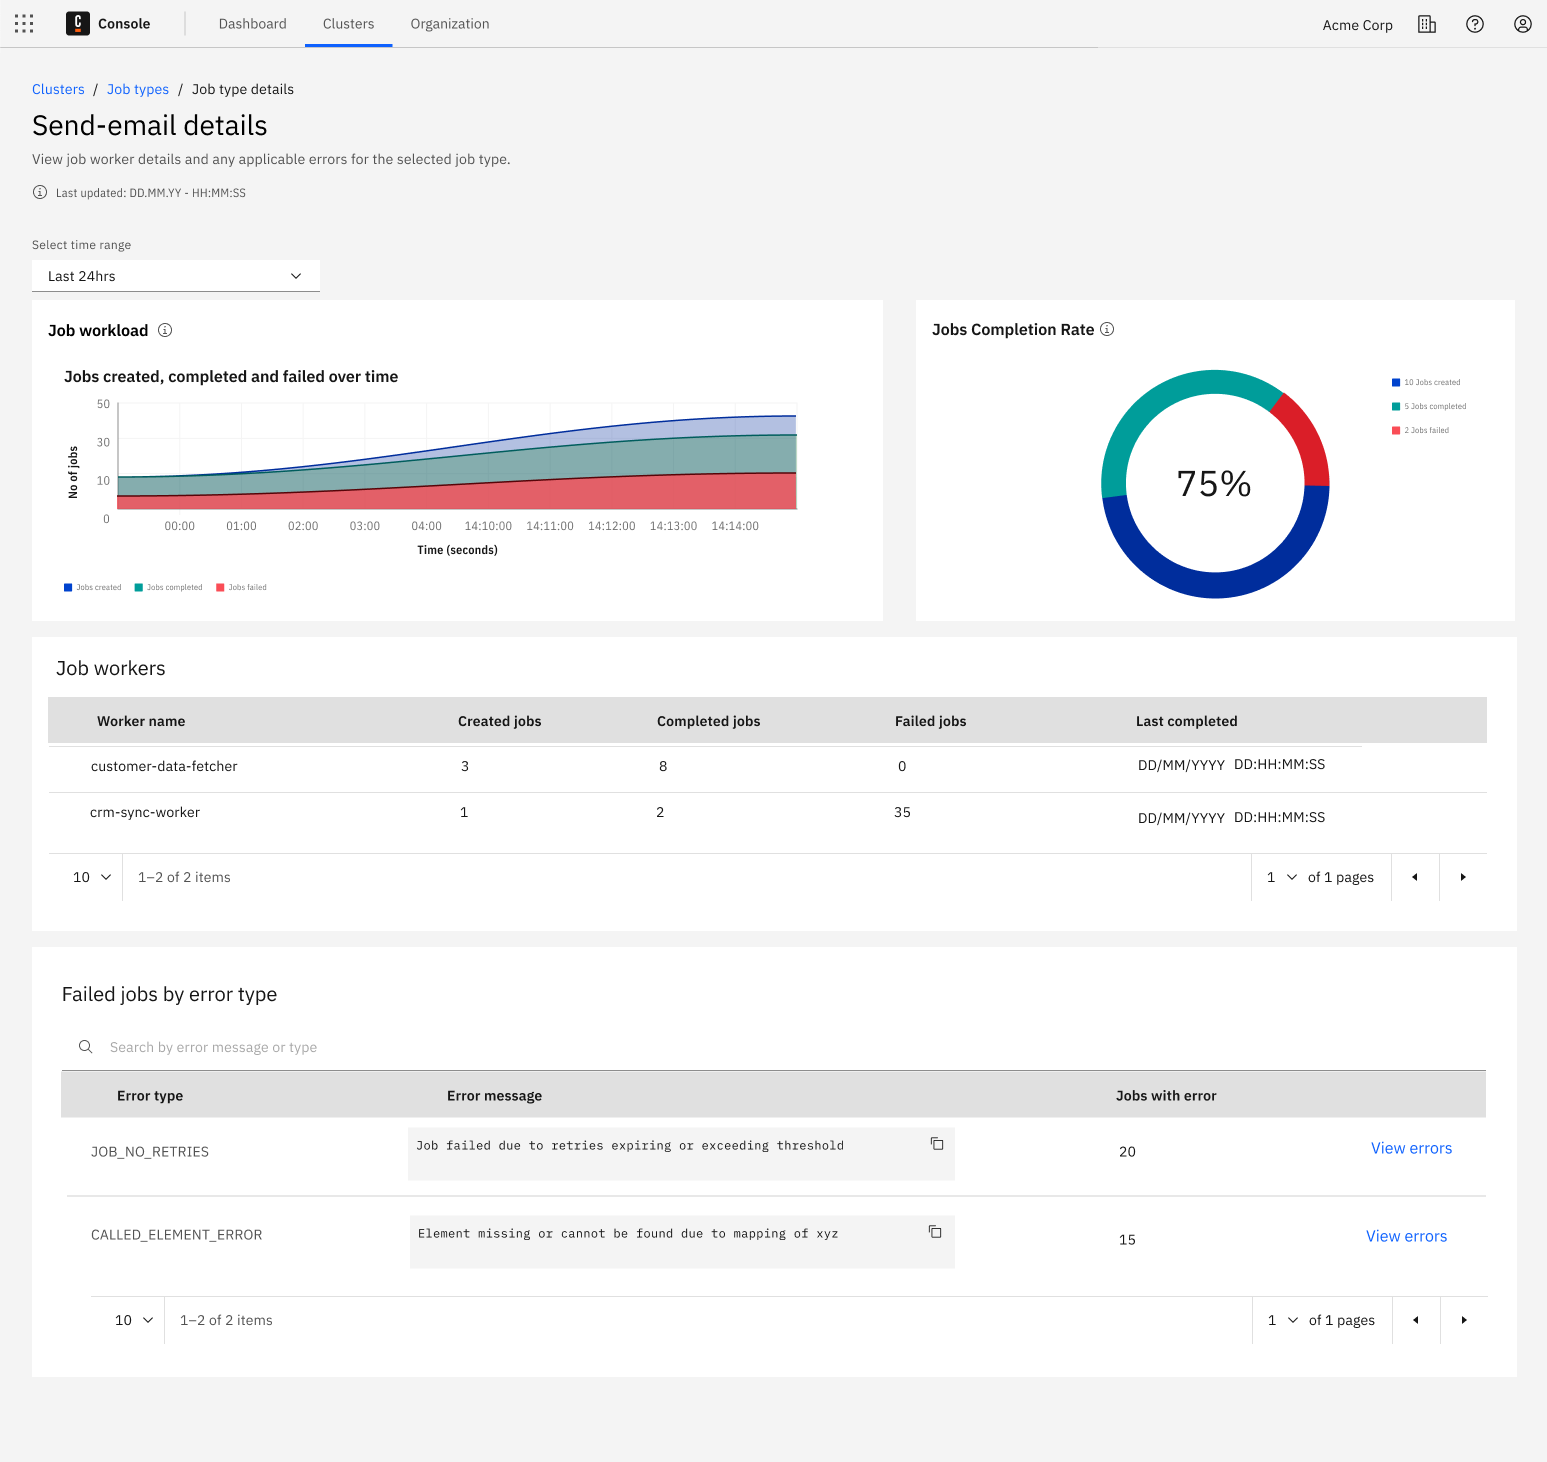
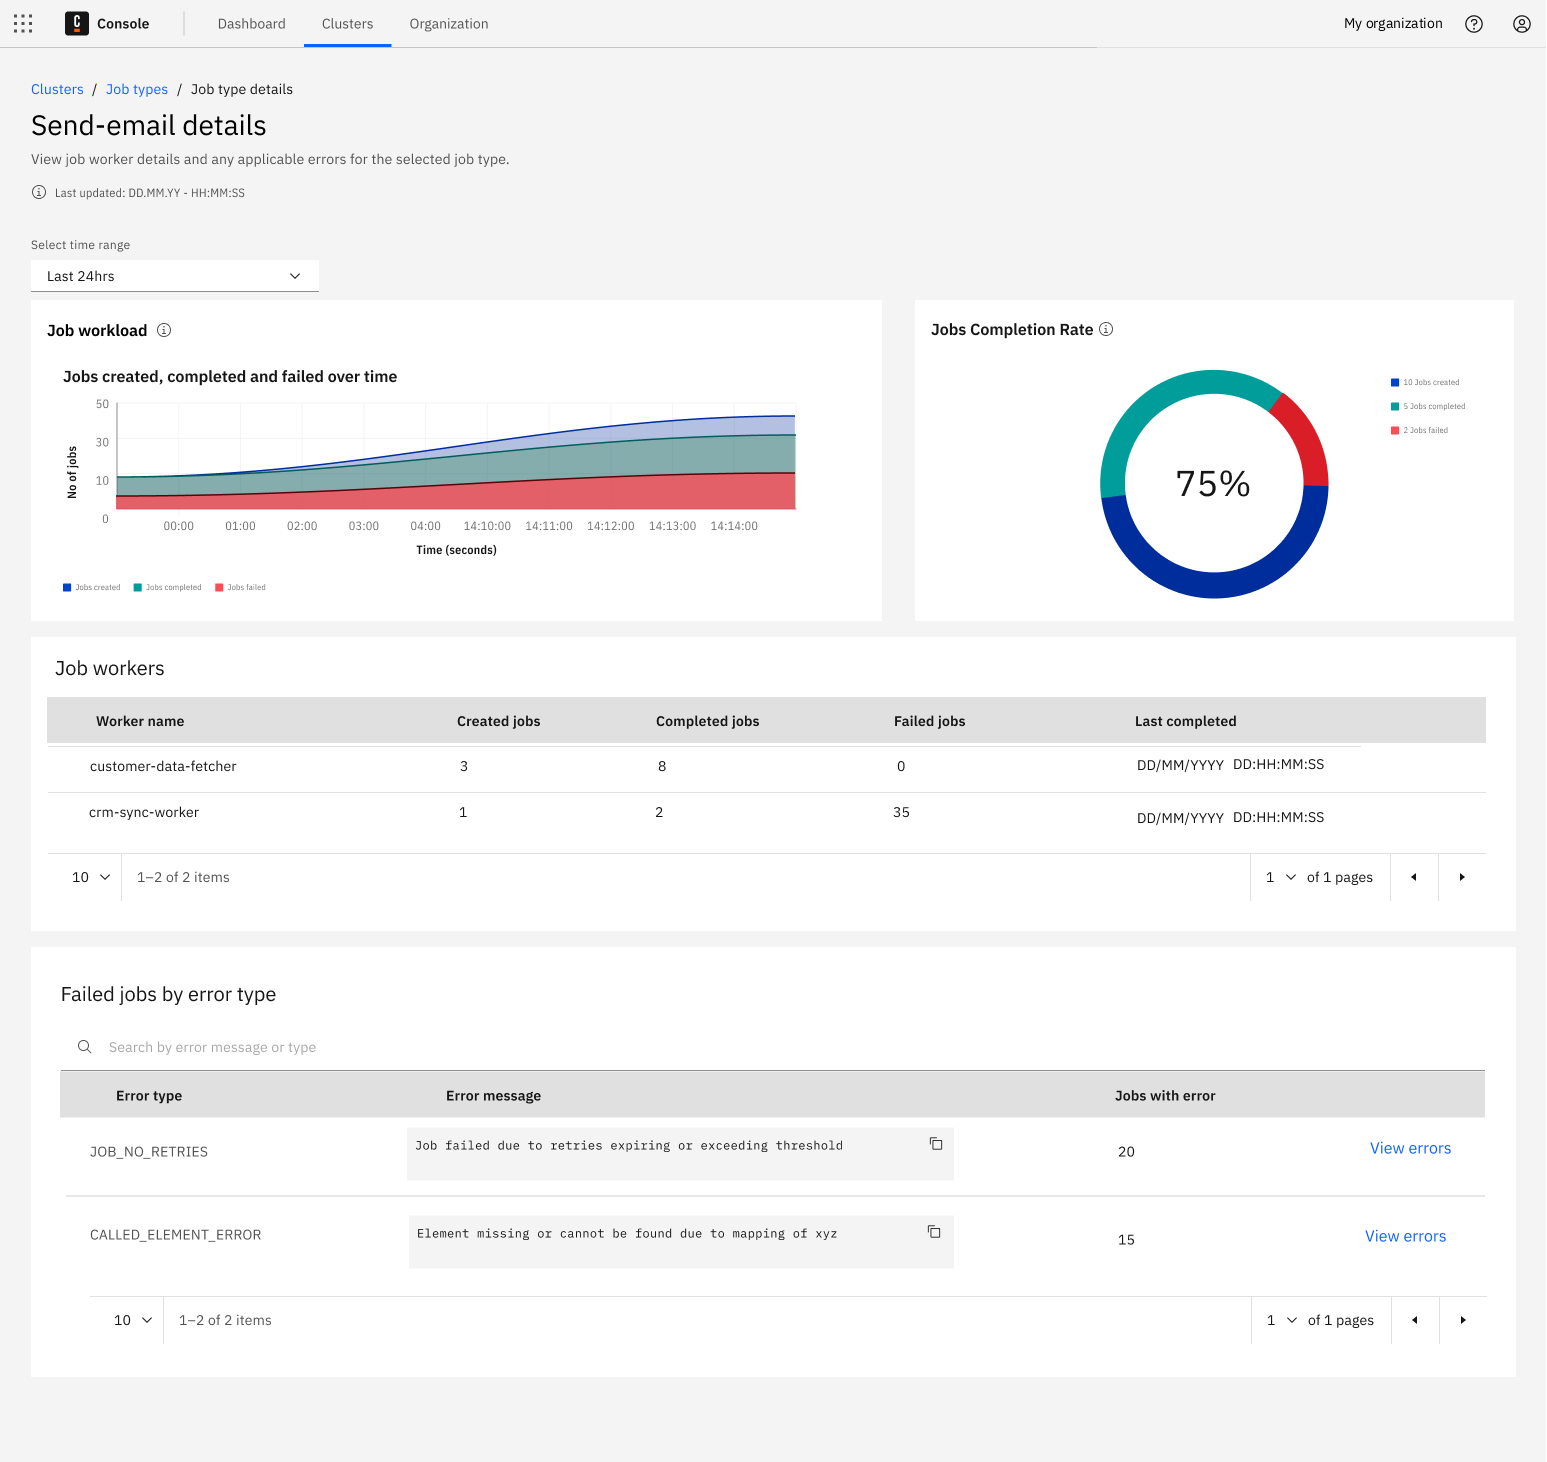
processed review comments

diff --git a/docs/components/console/job-dashboard/job-dashboard.md b/docs/components/console/job-dashboard/job-dashboard.md
@@ -1,32 +1,35 @@
 ---
 id: job-dashboard
 title: Job dashboard
-description: "Use the job dashboard to track job types and statistics."
+description: "Use the job dashboard in Console to see active job types, track created, completed and failed jobs, spot trends over time, and drill into job worker errors."
 ---
 
-The job dashboard in Console gives you a job-level view across your cluster. Use the job dashboard to see which job types are active, how many jobs are created, completed, and failed, and which job workers are involved.
+Use the job dashboard to see which job types are active, how many jobs are created, completed, and failed, and which job workers are involved.
 
 ## Availability and permissions
 
-The job dashboard is available in Console for clusters running Camunda 8.9 or later.
+The job dashboard is available in Console for clusters running Camunda 8.9+.
 
 For Software as a Service (SaaS):
 
 - Available for clusters running Camunda 8.9+.
 - Camunda manages the underlying job metrics configuration for you.
+- If the **Jobs** card is missing or shows **Access restricted**, check that your user has permission to view job metrics in Console. If the issue persists, contact your organization owner or Camunda Support.
 
 For Self-Managed:
 
 - Requires Camunda 8.9+ (Zeebe and Console).
-- Configure job metrics in the engine configuration (`camunda.monitoring.metrics.job-metrics.*`). These options and their default values are available in the auto-generated `defaults.yaml` file and Helm values.
+- Configure job metrics in the engine configuration (`camunda.monitoring.metrics.job-metrics.*`). These options and their default values are available in the auto-generated `defaults.yaml` file and the Helm values.
+- If the **Jobs** card is missing or shows **Access restricted**, verify that:
+  - The cluster is running Camunda 8.9+.
+  - Job metrics are enabled in the engine configuration.
+  - Console can connect to the cluster.
+  - Your user has permission to view job metrics.
 
 Access control:
 
-The global `READ_JOB_METRICS` permission is the only Console permission required to use the job dashboard.
-
-Operate permissions are still required to view underlying instances when you click **View errors**.
-
-If the feature is disabled or the user lacks permission, the **Jobs** card on the cluster overview shows **Access restricted**.
+- The global `READ_JOB_METRICS` permission is the only Console permission required to use the job dashboard.
+- Operate permissions are still required to view underlying instances when you click **View errors**.
 
 ## When to use the job dashboard
 
@@ -67,18 +70,24 @@ Key elements:
   - **Failed jobs**
   - **Last completed**
 
-If internal limits are reached for the selected date range, a warning will appear.
+If the selected date range hits internal limits, Console shows a warning that not all data is displayed. Narrow the time range to see a more complete view.
 
-Job metrics are stored in the internal JobMetrics store in the engine and exported in batches every five minutes.
+Job metrics are stored internally in the engine and exported in batches every five minutes. As a result, metrics in the UI can be delayed by up to five minutes.
 
-Configuration limits protect the system. These include:
+Configuration limits protect the system and include:
 
 - Maximum string lengths for job type, job worker, and tenant ID
 - Maximum number of unique keys (jobType × tenantId × job worker combinations)
 
 If a limit is exceeded, the batch is marked as incomplete, and the UI shows the **Data loading limit reached** warning.
 
-In this case, treat the counts as partial for the affected time range.
+In this case:
+
+- Narrow the time range to reduce the amount of data
+- Filter by job type to focus on a smaller subset
+- In Self-Managed environments, adjust configuration limits if needed
+
+Treat the counts as partial for the affected time range.
 
 To drill down into a specific job type, click its **Job type** link (for example, `send-email`).
 
@@ -109,7 +118,6 @@ The **Job workers** table shows which job workers processed this job type and ho
 - **Worker name**
 - **Created jobs**
 - **Completed jobs**
-- **Failed jobs**
 - **Last completed**
 
 Use this table to see which job workers are active and whether failures are concentrated on specific job workers.
@@ -140,7 +148,7 @@ This means there is no job activity to display.
 
 ### Jobs card access restricted
 
-If the feature is disabled for the cluster or you don’t have permission, the **Jobs** card on the cluster overview shows:
+If the feature is disabled for the cluster or you don't have permission, the **Jobs** card on the cluster overview shows:
 
 - Status: **Access restricted**
 - Message explaining that the feature is restricted or disabled and you must contact an administrator.

diff --git a/docs/self-managed/components/console/overview.md b/docs/self-managed/components/console/overview.md
@@ -12,6 +12,7 @@ Console delivers real-time insights into orchestration clusters and reduces the 
 ## Key features
 
 - **Cluster Status Dashboard**: Monitor the health of your orchestration cluster (Zeebe, Operate, Tasklist, Identity), connectors, and external services such as Optimize.
+- **Job dashboard**: See job types, job counts, and worker activity across the cluster. For details, see the [Job dashboard](/components/console/manage-clusters/job-dashboard.md).
 - **Cluster Telemetry**: Collect and view component metrics in a built-in monitoring interface.
 - **Cluster Configuration Overview**: View endpoint URLs, version details, and configuration metadata for your clusters.
 - **Health Monitoring**: Track availability of essential services across the platform.
